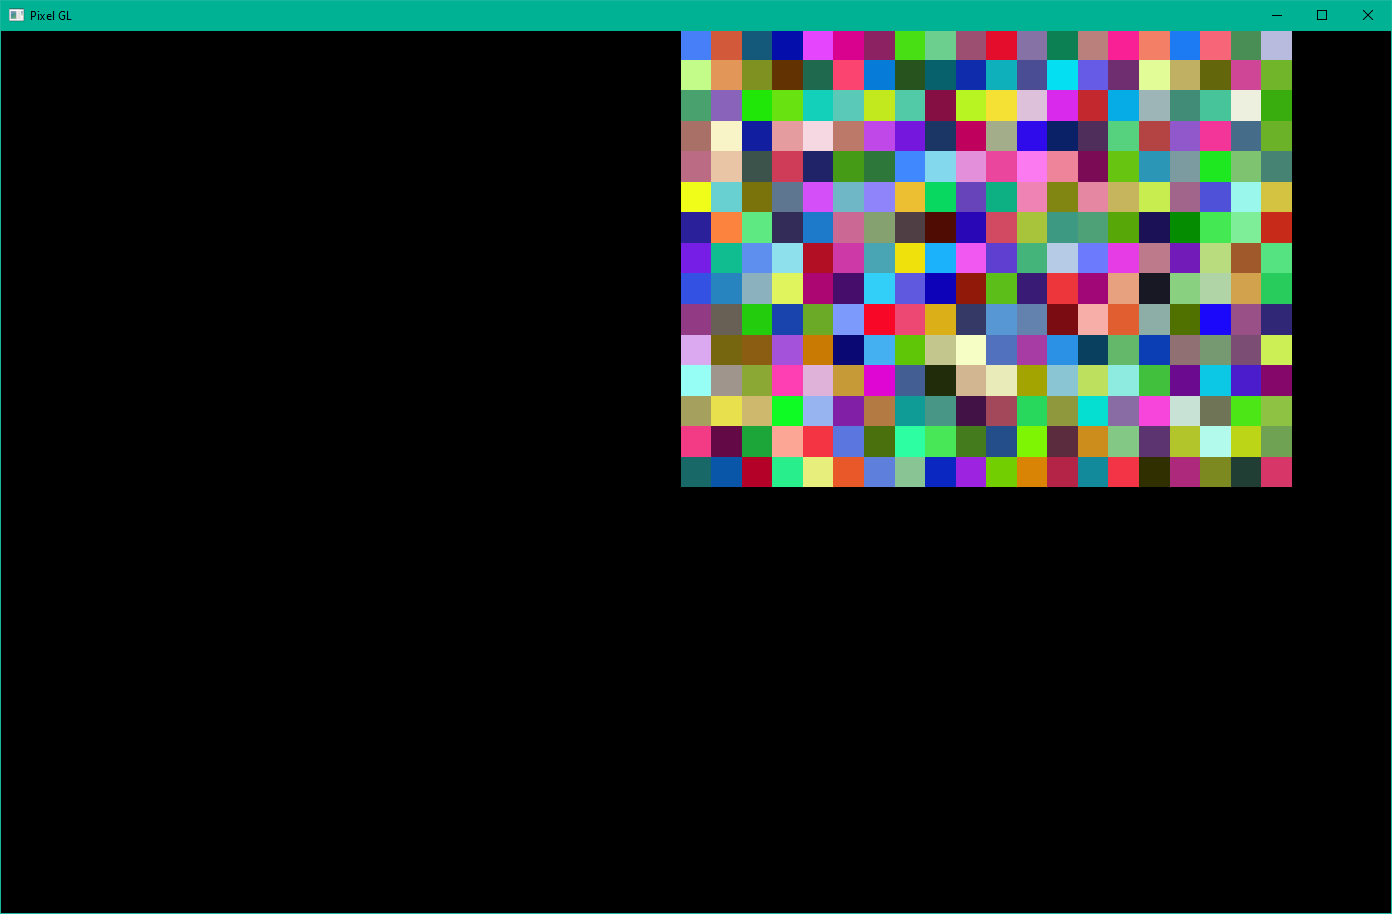
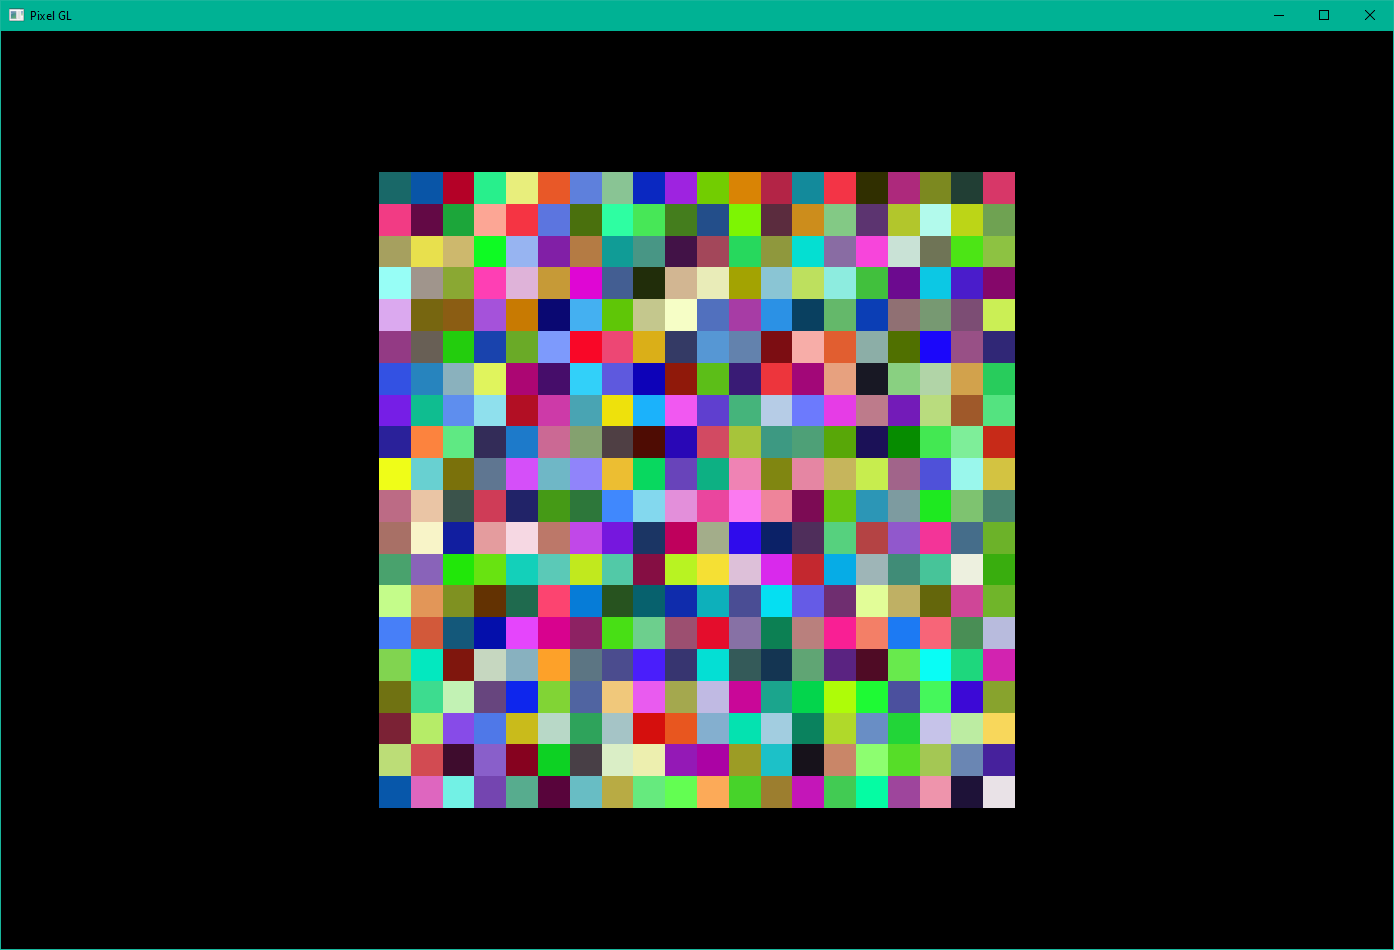
fixed pixels matrix

diff --git a/src/main/java/noise/pixel/PixelMatrixGPUPrep.java b/src/main/java/noise/pixel/PixelMatrixGPUPrep.java
@@ -69,19 +69,22 @@ public class PixelMatrixGPUPrep {
         ArrayList<Integer> indicesArrayList = new ArrayList<>(rawPixelMatrixSize + 1);
         ArrayList<Float> colorsArrayList = new ArrayList<>(rawPixelMatrixSize + 1);
 
-        float pixelSizex = Math.abs(xRight - xLeft);
-        float pixelSizey = Math.abs(yBot - yTop);
+
+        int numVertexPerPixel = 4;
+        float z = -50;
 
         int currentPixelIndex = 0;
-        int numVertex = 4;
-        float z = -50 * rawPixelMatrix.length;
+        float pixelSizex = Math.abs(xRight - xLeft) / rawPixelMatrix.length;
+        float pixelSizey;
         for (int row = 0; row < rawPixelMatrix.length; row++) {
+            pixelSizey = Math.abs(yBot - yTop) / rawPixelMatrix[row].length;
+            System.out.println("pixelSizex: " + pixelSizex + "; pixelSizey: " + pixelSizey);
             for (int col = 0; col < rawPixelMatrix[row].length; col++) {
-                float xLeft = this.xLeft + col * pixelSizex;
-                float xRight = this.xLeft + (col + 1) * pixelSizex;
-                float yTop = this.yTop + row * pixelSizey;
-                float yBot = this.yTop + (row - 1) * pixelSizey;
-                //System.out.println("xLeft: " + xLeft + "; xRight: " + xRight + "; yTop: " + yTop + ",yBot: " + yBot);
+                float xLeft = this.xLeft + (col * pixelSizex);
+                float xRight = this.xLeft + ((col + 1) * pixelSizex);
+                float yTop = this.yTop - (row * pixelSizey);
+                float yBot = this.yTop - ((row + 1) * pixelSizey);
+                System.out.println("xLeft: " + xLeft + "; xRight: " + xRight + "; yTop: " + yTop + ",yBot: " + yBot);
 
 
                 Vec3 topLeftCorner = new Vec3(xLeft, yTop, z);
@@ -94,12 +97,12 @@ public class PixelMatrixGPUPrep {
                 positionsArrayList.addAll(List.of(topRightCorner.toArray()));
                 positionsArrayList.addAll(List.of(botRightCorner.toArray()));
 
-                indicesArrayList.add(currentPixelIndex * numVertex);
-                indicesArrayList.add(currentPixelIndex * numVertex + 1);
-                indicesArrayList.add(currentPixelIndex * numVertex + 2);
-                indicesArrayList.add(currentPixelIndex * numVertex + 2);
-                indicesArrayList.add(currentPixelIndex * numVertex + 3);
-                indicesArrayList.add(currentPixelIndex * numVertex);
+                indicesArrayList.add(currentPixelIndex * numVertexPerPixel);
+                indicesArrayList.add(currentPixelIndex * numVertexPerPixel + 1);
+                indicesArrayList.add(currentPixelIndex * numVertexPerPixel + 2);
+                indicesArrayList.add(currentPixelIndex * numVertexPerPixel + 2);
+                indicesArrayList.add(currentPixelIndex * numVertexPerPixel + 3);
+                indicesArrayList.add(currentPixelIndex * numVertexPerPixel);
                 //System.out.println("positionsArrayList" + positionsArrayList);
                 //System.out.println("indicesArrayList" + indicesArrayList);
 

diff --git a/src/main/java/noise/MatrixNoise.java b/src/main/java/noise/MatrixNoise.java
@@ -1,0 +1,58 @@
+package noise;
+
+import java.util.Random;
+
+public class MatrixNoise {
+
+    public static void main(String[] args) {
+        Vec2[][] floats = generateMatrix(3);
+        expandMatrix(floats);
+    }
+
+    private static Vec2[][] generateMatrix(int size) {
+        Random rand = new Random();
+        Vec2[][] matrix = new Vec2[size][size];
+
+        for (int i = 0; i < matrix.length; i++) {
+            for (int j = 0; j < matrix[i].length; j++) {
+                matrix[i][j] = new Vec2(rand.nextFloat(), rand.nextFloat());
+            }
+        }
+
+        System.out.println("noise Matrix");
+        System.out.println(matrixToString(matrix));
+
+        return matrix;
+    }
+
+    private static Vec2[][] expandMatrix(Vec2[][] matrix) {
+        Random rand = new Random();
+        Vec2[][] expandedMatrix = new Vec2[matrix.length * 2 + 1][matrix[0].length * 2 + 1];
+        System.out.println("size of new matrix: " + expandedMatrix.length + " - " + expandedMatrix[0].length);
+
+
+        return matrix;
+    }
+
+    private static <T> String matrixToString(T[][] matrix) {
+        StringBuilder stringResult = new StringBuilder();
+        String separator = " ; ";
+        String[] rowSeparator = {"[", "]"};
+        stringResult.append(rowSeparator[0]).append("\n");
+        for (int i = 0; i < matrix.length; i++) {
+
+            stringResult.append(i).append(":").append(rowSeparator[0]);
+            for (int j = 0; j < matrix[i].length; j++) {
+
+                stringResult.append(matrix[i][j]);
+                if (j < matrix[i].length - 1)
+                    stringResult.append(separator);
+            }
+            stringResult.append(rowSeparator[1]);
+            stringResult.append("\n");
+        }
+        stringResult.append(rowSeparator[1]);
+        return stringResult.toString();
+
+    }
+}

diff --git a/src/main/java/noise/main.java b/src/main/java/noise/main.java
@@ -1,0 +1,65 @@
+package noise;
+
+import org.jetbrains.annotations.Contract;
+import org.jetbrains.annotations.NotNull;
+
+import java.util.Arrays;
+import java.util.Random;
+
+public class main {
+    public static void main(String[] args) {
+        int size = 16;
+        int nOctaves = 5;
+
+        float[] floats = generateSeed(16);
+        generateOctaves(floats, size, nOctaves);
+    }
+
+    /***
+     * Interpolating method
+     * @param start start of the interval
+     * @param end end of the interval
+     * @param count count of output interpolated numbers
+     * @return array of interpolated number with specified count
+     */
+    public static double[] interpolate(double start, double end, int count) {
+        if (count < 2) {
+            throw new IllegalArgumentException("interpolate: illegal count!");
+        }
+        double[] array = new double[count + 1];
+        for (int i = 0; i <= count; ++i) {
+            array[i] = start + i * (end - start) / count;
+        }
+        return array;
+    }
+
+
+    private static float[] generateOctaves(float[] floats, int size, int nOctaves) {
+
+
+        float[] seed = new float[size];
+        for (int octave = 0; octave < nOctaves; octave++) {
+            for (int i = 0; i < size; i++) {
+                int sampleRate = size / nOctaves;
+
+            }
+        }
+
+        return new float[0];
+    }
+
+    private static float[] generateSeed(int size) {
+        Random rand = new Random();
+
+        float[] seed = new float[size];
+        for (int i = 0; i < size; i++) {
+            seed[i] = rand.nextFloat();
+        }
+
+        System.out.println(Arrays.toString(seed));
+        return seed;
+
+    }
+
+
+}
